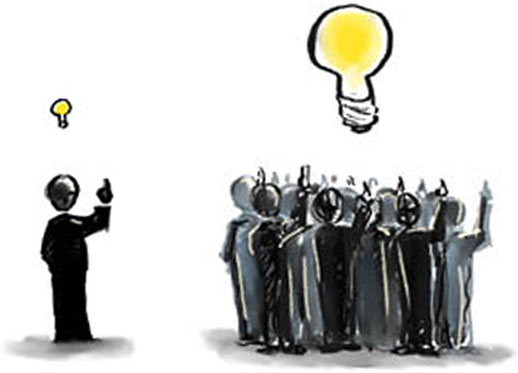
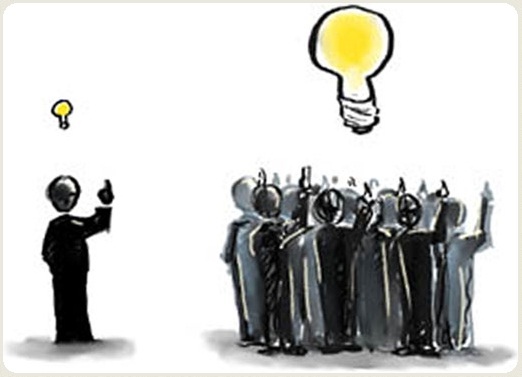
change body color

diff --git a/css/huimain.css b/css/huimain.css
@@ -1,4 +1,7 @@
-
+html, body
+{
+	background: #eceadf;
+}
 
 .columnline {
 	color : red;
